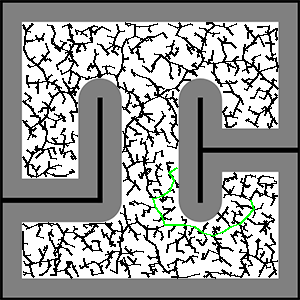
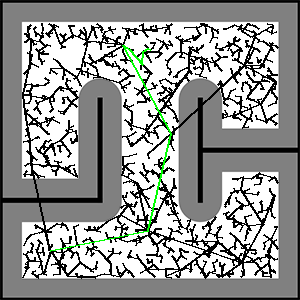
rrt done, need to follow point

diff --git a/lab11.py b/lab11.py
@@ -1,0 +1,192 @@
+from pyCreate2 import create2
+import lab11_map
+import math
+import random
+from rrt_two import RRT
+import numpy as np
+import odometry
+import pid_controller
+
+
+class Run:
+    def __init__(self, factory):
+        self.create = factory.create_create()
+        self.time = factory.create_time_helper()
+        self.map = lab11_map.Map("configuration_space.png")
+        self.T = None
+        self.start = (50, 250)
+        self.end = (150, 50)
+        self.create = factory.create_create()
+        self.time = factory.create_time_helper()
+        self.sonar = factory.create_sonar()
+        self.servo = factory.create_servo()
+        self.odometry = odometry.Odometry()
+        self.pidTheta = pid_controller.PIDController(300, 5, 50, [-10, 10], [-200, 200], is_angle=True)
+        self.pidDistance = pid_controller.PIDController(1000, 0, 50, [0, 0], [-200, 200], is_angle=False)
+        self.waypoints = [
+            [150, 50],
+            [150.14869758889074, 50.40240062947044],
+            [151.38443594068957, 44.531033605863975],
+            [157.34395035447554, 43.83519745282403],
+            [159.9830566644057, 49.22362188719136],
+            [165.01971207958653, 52.48431233995281],
+            [166.08200989749037, 51.76595509541835],
+            [162.8274040002357, 56.80654439167679],
+            [162.58914539688016, 62.80181192848672],
+            [161.65134293979207, 68.7280693099611],
+            [166.24511621483907, 72.5877645178064],
+            [169.4596961251666, 77.65397375155491],
+            [169.81189729262783, 83.64362769294743],
+            [168.1030136923147, 89.39512461466971],
+            [169.13222641008716, 95.30619230008624],
+            [164.28476945770043, 98.84203181776199],
+            [159.13657223555904, 101.92360047056458],
+            [153.29153438432476, 103.27841873056795],
+            [153.2062807131846, 109.2778130176237],
+            [147.20661026888413, 109.3406983083301],
+            [142.43545544316433, 112.9788409153496],
+            [138.14598394596814, 117.17412806580087],
+            [134.00098880255507, 121.51221696081929],
+            [128.50635958940123, 123.92241400877123],
+            [124.88953147621035, 128.70974671077053],
+            [122.03362683798868, 133.98647000249088],
+            [124.28370096943293, 139.54858887959207],
+            [126.46223063229577, 145.1391173437023],
+            [130.15695556054735, 149.86659105643264],
+            [127.60995902855399, 155.2991603073501],
+            [132.9736448370284, 157.98818885832725],
+            [133.45711508360725, 163.96867851392176],
+            [131.07296807919232, 169.4746609931292],
+            [131.24690427428683, 175.4721393132264],
+            [134.99794743982267, 180.15505242050128],
+            [138.87993530319093, 184.7300027184457],
+            [136.02415090903725, 190.00679108771996],
+            [130.8470605748313, 193.03956797886627],
+            [126.64751896605162, 197.32487430118775],
+            [125.42618081893612, 203.1992536837609],
+            [124.30401895723566, 209.09338235186317],
+            [123.03868731186792, 214.95844295063202],
+            [123.80377133289849, 220.9094635724047],
+            [121.8817393194328, 226.59328208984638],
+            [115.88754582646332, 226.32937989424667],
+            [110.90414570516865, 222.98786478413865],
+            [105.27395281619683, 225.06173267601872],
+            [99.30694346426476, 224.43340203538813],
+            [93.47788328129653, 223.01141139430277],
+            [89.13971178359841, 227.15632008528254],
+            [83.2197041879971, 226.1798416840761],
+            [77.4208438305826, 224.63931626876916],
+            [72.91510466462213, 228.60142613200236],
+            [66.9985043843938, 229.59834193787665],
+            [62.60566001766925, 233.685262339565],
+            [56.640797678751746, 234.3336582662669],
+            [57.08162675626823, 240.3174421631348],
+            [53.414063993062086, 245.06601914765804],
+            [50, 250]
+        ]
+
+    def run(self):
+        # This is an example on how to check if a certain point in the given map is an obstacle
+        # Each pixel corresponds to 1cm
+        # print(self.map.has_obstacle(50, 60))
+
+        self.generate_rrt(self.start, 3000, 10.0)
+        self.draw_edges()
+        self.draw_shortest(self.T.print_shortest())
+        self.follow_path()
+
+        # This is an example on how to draw a line
+        # self.map.draw_line((0, 0), (self.map.width, self.map.height), (255, 0, 0))
+        # self.map.draw_line((0, self.map.height), (self.map.width, 0), (0, 255, 0))
+        self.map.save("fp11_rrt.png")
+
+    def draw_edges(self):
+        for edge in self.T.edges:
+            self.map.draw_line(edge[0], edge[1], color=(255, 0, 0))
+
+    def draw_shortest(self, points):
+        for i in range(len(points) - 1):
+            self.map.draw_line(points[i], points[i+1], color=(0, 255, 0))
+
+    @staticmethod
+    def dist(p1, p2):
+        return math.sqrt((p1[0] - p2[0]) * (p1[0] - p2[0]) + (p1[1] - p2[1]) * (p1[1] - p2[1]))
+
+    def random_state(self):
+        while True:
+            rand = random.random() * 300.0, random.random() * 300.0
+            if not self.map.has_obstacle(rand[0], rand[1]):
+                break
+        return rand
+
+    def nearest_neighbor(self, rand, nodes):
+        nn = nodes[0]
+        for p in nodes:
+            if self.dist(p, rand) < self.dist(nn, rand):
+                nn = p
+        return nn
+
+    def new_state(self, p1, p2, delta_t):
+        if self.dist(p1, p2) < delta_t:
+            return p2
+        else:
+            while True:
+                theta = math.atan2(p2[1] - p1[1], p2[0] - p1[0])
+                new_point = p1[0] + delta_t * math.cos(theta), p1[1] + delta_t * math.sin(theta)
+                if not self.map.has_obstacle(new_point[0], new_point[1]):
+                    break
+                else:
+                    p2 = self.random_state()
+            return new_point
+
+    def generate_rrt(self, x_init, K, delta_t):
+        # x_init = starting coords (in lab) [270,310]
+        # K = number of iterations = tuning ad hoc [2000]
+        # delta_t = step size which is how much you wanna move, tune ad hoc
+        self.T = RRT(x_init, self.end)
+        for k in range(K):
+            x_rand = self.random_state()
+            x_near = self.nearest_neighbor(x_rand, self.T.nodes)
+            x_new = self.new_state(x_near, x_rand, delta_t)
+            self.T.add_vertex(x_new)
+            self.T.add_edge(x_near, x_new)
+        x_near = self.nearest_neighbor(self.end, self.T.nodes)
+        x_new = self.new_state(x_near, self.end, delta_t)
+        self.T.add_vertex(x_new)
+        self.T.add_edge(x_near, x_new)
+
+    def follow_path(self):
+        self.create.start()
+        self.create.safe()
+
+        # request sensors
+        self.create.start_stream([
+            create2.Sensor.LeftEncoderCounts,
+            create2.Sensor.RightEncoderCounts,
+        ])
+
+        self.waypoints.reverse()
+        self.odometry.x = self.waypoints[0][1]/100
+        self.odometry.y = self.waypoints[0][0]/100
+        for waypoint in self.waypoints:
+            goal_x = waypoint[1] / 100
+            goal_y = -waypoint[0] / 100
+
+            print("waypoint:", goal_x, goal_y)
+
+            while True:
+                state = self.create.update()
+                if state is not None:
+                    if abs(goal_x - self.odometry.x) <= .1 and abs(goal_y - self.odometry.y) <= .1:
+                        break
+                    self.odometry.update(state.leftEncoderCounts, state.rightEncoderCounts)
+                    goal_theta = math.atan2(goal_y - self.odometry.y, goal_x - self.odometry.x)
+                    print("[{},{},{}]".format(self.odometry.x, self.odometry.y, math.degrees(self.odometry.theta)))
+                    output_theta = self.pidTheta.update(self.odometry.theta, goal_theta, self.time.time())
+
+                    # improved version 2: fuse with velocity controller
+                    distance = math.sqrt(math.pow(goal_x - self.odometry.x, 2) + math.pow(goal_y - self.odometry.y, 2))
+                    output_distance = self.pidDistance.update(0, distance, self.time.time())
+                    self.create.drive_direct(int(output_theta + output_distance), int(-output_theta + output_distance))
+
+

diff --git a/lab11_solution.py b/lab11_solution.py
@@ -21,15 +21,15 @@ class Run:
     def run(self):
 
         # find a path
-        self.rrt.build((300-50, 300-100), 3000, 10)
-        x_goal = self.rrt.nearest_neighbor((200, 170))
+        self.rrt.build((50, 250), 3000, 100)
+        x_goal = self.rrt.nearest_neighbor((150, 50))
         path = self.rrt.shortest_path(x_goal)
 
         for v in self.rrt.T:
             for u in v.neighbors:
-                self.map.draw_line((v.state[0], v.state[1]), (u.state[0], u.state[1]), (0,0,0))
+                self.map.draw_line((v.state[0], v.state[1]), (u.state[0], u.state[1]), (0, 0, 0))
         for idx in range(0, len(path)-1):
-            self.map.draw_line((path[idx].state[0], path[idx].state[1]), (path[idx+1].state[0], path[idx+1].state[1]), (0,255,0))
+            self.map.draw_line((path[idx].state[0], path[idx].state[1]), (path[idx+1].state[0], path[idx+1].state[1]), (0, 255, 0))
 
         self.map.save("finalproject_rrt.png")
 
